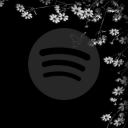
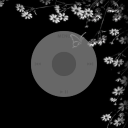
updated readme and specs
this is my hailmary so spotify upgrades me out of developer mode

Changed region(s): [[0.2188, 0.2188, 0.7812, 0.7812]]

diff --git a/src/services/spotifyplayer.ts b/src/services/spotifyplayer.ts
@@ -91,7 +91,7 @@ export async function playSpotify(context: vscode.ExtensionContext, albumId?: st
         }
       } else if (!response.ok) {
         const errorText = await response.text();
-        vscode.window.showErrorMessage(`Failed to play: ${response.status} ${errorText} please wait 1 minute or relogin later`);
+        vscode.window.showErrorMessage(`Failed to play: ${response.status} ${errorText} please wait 1 minute or relogin later, Spotify Premium is required`);
       }
       else {
         vscode.window.showInformationMessage('▶ Playing on Spotify!');
@@ -146,11 +146,11 @@ export async function playSpotify(context: vscode.ExtensionContext, albumId?: st
           return;
         }
       } else {
-        vscode.window.showErrorMessage(`Spotify error: ${error?.error?.message || 'Unknown error'}`);
+        vscode.window.showErrorMessage(`Spotify error: ${error?.error?.message || 'Unknown error'}  Spotify Premium is required` );
       }
     } else if (!response.ok) {
       const errorText = await response.text();
-      vscode.window.showErrorMessage(`Failed to play: ${response.status} ${errorText}`);
+      vscode.window.showErrorMessage(`Failed to play: ${response.status} ${errorText}  Spotify Premium is required`);
     }
     else {
       vscode.window.showInformationMessage('▶ Playing on Spotify!');
@@ -181,7 +181,7 @@ export async function playSpotify(context: vscode.ExtensionContext, albumId?: st
       
       vscode.window.showErrorMessage(`Failed to play: ${response.status} ${errorText}`);
     } else {
-      vscode.window.showInformationMessage('▶ Playing on Spotify!');
+      vscode.window.showInformationMessage('▶ Playing on Spotify! ');
     }
   }
 export async function pauseSpotify(context: vscode.ExtensionContext, albumUri?: string ) {
@@ -214,7 +214,7 @@ export async function pauseSpotify(context: vscode.ExtensionContext, albumUri?: 
 
   if (!response.ok) {
     const errorText = await response.text();
-    vscode.window.showErrorMessage(`Failed to play: ${response.status} ${errorText}`);
+    vscode.window.showErrorMessage(`Failed to play: ${response.status} ${errorText}  Spotify Premium is required`);
   } else {
     vscode.window.showInformationMessage('▶ Paused!');
   }
@@ -239,7 +239,7 @@ export async function searchSpotify(context: vscode.ExtensionContext, albumName:
     },
   });
   if (!response.ok) {
-    vscode.window.showErrorMessage(`Spotify API error: ${response.status}`);
+    vscode.window.showErrorMessage(`Spotify API error: ${response.status} `);
     return null;
   }
 
@@ -306,7 +306,7 @@ export async function getSpecificPlaylist(context: vscode.ExtensionContext, play
     vscode.window.showErrorMessage('Spotify access token not found. Please log in.');
     return;
   };
-  const seperatedID = playlistURI.split(":")
+  const seperatedID = playlistURI.split(":");
   const playlistID = seperatedID[seperatedID.length - 1]; // cant use -1 in ts
 
   const response = await fetch(`https://api.spotify.com/v1/playlists/${playlistID}`, { // use backticks to enable string interpolation
@@ -457,7 +457,7 @@ export async function shuffleSpotify(context: vscode.ExtensionContext, toggle: b
 
   if (!response.ok) {
     const errorText = await response.text();
-    vscode.window.showErrorMessage(`Failed to toggle shuffle: ${response.status} ${errorText}`);
+    vscode.window.showErrorMessage(`Failed to toggle shuffle: ${response.status} ${errorText}  Spotify Premium is required`);
     return false;
   }
 

diff --git a/src/assets/script.js b/src/assets/script.js
@@ -92,11 +92,11 @@ function renderAlbums(albums) {
                     currentlyPlaying.classList.add("slide-in");
                     currentlyPlaying.setAttribute('data-cd-state', 'retracted');
 
-                    const previousPlasticOverlay = currentlyPlaying.parentElement.querySelector(".plastic-overlay"); // we need parent here because we are in the CD-OVERLAY div, not in the actual album div, so we need to find the parent elemnt, then look for plastic overlay div 
-                    if (previousPlasticOverlay.classList.contains("remove-overlay")){
-                        previousPlasticOverlay.classList.remove("remove-overlay");
-                    };
-                    previousPlasticOverlay.classList.add("add-overlay");
+                    // const previousPlasticOverlay = currentlyPlaying.parentElement.querySelector(".plastic-overlay"); // we need parent here because we are in the CD-OVERLAY div, not in the actual album div, so we need to find the parent elemnt, then look for plastic overlay div 
+                    // if (previousPlasticOverlay.classList.contains("remove-overlay")){
+                    //     previousPlasticOverlay.classList.remove("remove-overlay");
+                    // };
+                    // previousPlasticOverlay.classList.add("add-overlay");
                     
                     // Let the animation finish before removing the class
                     setTimeout(() => {
@@ -105,10 +105,10 @@ function renderAlbums(albums) {
                 }
                 
                 // removing plastic effect 
-                if (plasticOverlay.classList.contains("add-overlay")){
-                    plasticOverlay.classList.remove("add-overlay");}
-                plasticOverlay.classList.add("remove-overlay"); // this references the album that was being clicked, albumElement.plasticoverlay essentially 
-                // setTimeout(() => {
+                // if (plasticOverlay.classList.contains("add-overlay")){
+                //     plasticOverlay.classList.remove("add-overlay");}
+                // plasticOverlay.classList.add("remove-overlay"); // this references the album that was being clicked, albumElement.plasticoverlay essentially 
+                // // setTimeout(() => {
                 //     plasticOverlay.style.display = "none"; // Hide overlay after timed animation 
                 // }, 500);
                 
@@ -141,9 +141,9 @@ function renderAlbums(albums) {
                 setTimeout(() => {
                     CDOverlay.classList.remove("slide-in");
                 }, 500);
-                plasticOverlay.style.display = "flex";
-                plasticOverlay.classList.remove("remove-overlay");
-                plasticOverlay.classList.add("add-overlay");
+                // plasticOverlay.style.display = "flex";
+                // plasticOverlay.classList.remove("remove-overlay");
+                // plasticOverlay.classList.add("add-overlay");
                 // setTimeout(() => {
                 //     CDOverlay.classList.remove("add-overlay");
                 // }, 500);

diff --git a/src/assets/style.css b/src/assets/style.css
@@ -45,7 +45,7 @@ body {
     align-items: center;
     justify-content: center;
     overflow: hidden;
-    border-radius: 10px;
+    border-radius: 4px;
     z-index: 2; /* Increased to be above the CD */
 }
 
@@ -53,7 +53,7 @@ body {
     width: 100%;
     height: 100%;
     object-fit: cover;
-    border-radius: 10px;
+    border-radius: 4px;
 }
 
 /* Shrink wrap effect */
@@ -69,7 +69,7 @@ body {
     pointer-events: none; /* Prevent interaction */
     z-index: 3; /* Increased to be the topmost layer */
     transition: opacity 0.5s ease;
-    display: flex;
+    display: none;
 }
 
 /* Album title and artist */
@@ -115,6 +115,7 @@ body {
     font-size: 0.8rem;
     color: #aaa;
   }
+
 .CD-Overlay {
     padding-top: 72px;
     padding-left: 5px;
@@ -158,6 +159,15 @@ body {
     height: auto; /* make sure it's on top of other content */
     z-index: 5;
     pointer-events: none;
+  }
+
+  .fixed-top-left {
+    position: fixed;
+    top: 5px; /* distance from bottom */
+    left: 15px;   /* distance from left */
+    width: 80px;  /* adjust size as needed */
+    height: auto; /* make sure it's on top of other content */
+    pointer-events: none    ;
   }
 
 

diff --git a/src/views/albumgridproviderwebview.ts b/src/views/albumgridproviderwebview.ts
@@ -98,6 +98,7 @@ export class AlbumGridWebview implements vscode.WebviewViewProvider {
       </div>
       <div>
         <img src="${webview.asWebviewUri(vscode.Uri.joinPath(this.context.extensionUri, 'src', 'assets', 'flowerborderglow.png'))}" class="fixed-top-right" />
+        <img src="${webview.asWebviewUri(vscode.Uri.joinPath(this.context.extensionUri, 'src', 'assets', 'SpotifyLogo.png'))}" class="fixed-top-left" />
       </div>
       <script src="${utilJS}"></script> 
       <script src="${scriptJS}"></script> <!-- Load external script -->

diff --git a/src/services/SpotifyService.ts b/src/services/SpotifyService.ts
@@ -221,7 +221,7 @@ export function scheduleAutoRefresh(context: vscode.ExtensionContext) {
         console.log('⚠ Failed to refresh token');
       }
     }
-  }, 60 * 1000); // Check every 1 minute
+  }, 60 * 1000); 
 
   context.subscriptions.push({ dispose: () => clearInterval(interval) });
 }

diff --git a/README.md b/README.md
@@ -2,6 +2,8 @@
 
 **Music Shelf** lets you display your favorite Spotify playlists and albums right in the **VS Code Explorer**, and control playback without leaving your coding flow.
 
+You will need spotify premium for most features like playback to work
+
 ## Installation
 Navigate to the VScode Store and search Music Shelf
 ## Features
